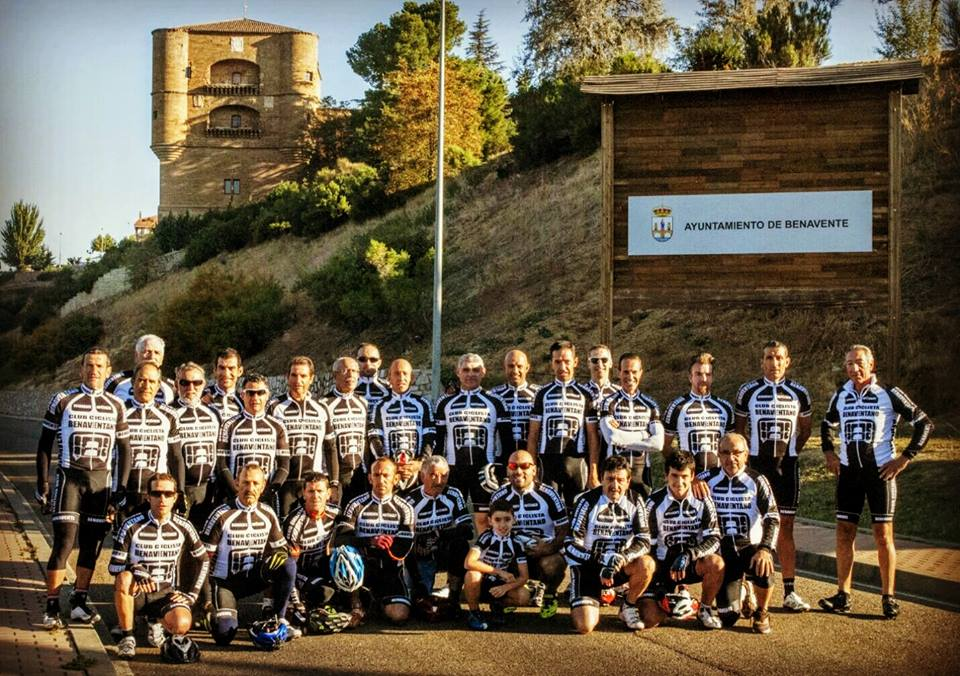
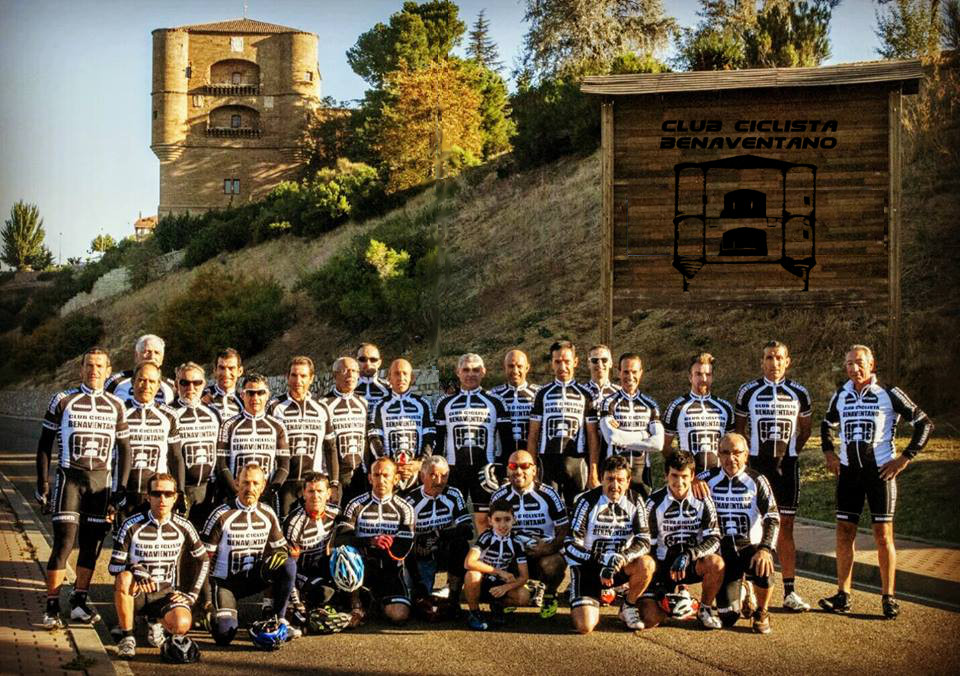
Fix hard-coded [object Object] string (thanks!)

Changed region(s): [[0.6562, 0.1553, 0.9375, 0.4349], [0.4375, 0.0, 0.4688, 0.5902]]

diff --git a/fotos/171030.html b/fotos/171030.html
@@ -1,0 +1,102 @@
+<!DOCTYPE HTML>
+<!--
+	Multiverse by HTML5 UP
+	html5up.net | @ajlkn
+	Free for personal and commercial use under the CCA 3.0 license (html5up.net/license)
+-->
+<html>
+	<head>
+		<title>Multiverse by HTML5 UP</title>
+		<meta charset="utf-8" />
+		<meta name="viewport" content="width=device-width, initial-scale=1, user-scalable=no" />
+		<!--[if lte IE 8]><script src="assets/js/ie/html5shiv.js"></script><![endif]-->
+		<link rel="stylesheet" href="assets/css/main.css" />
+		<!--[if lte IE 9]><link rel="stylesheet" href="assets/css/ie9.css" /><![endif]-->
+		<!--[if lte IE 8]><link rel="stylesheet" href="assets/css/ie8.css" /><![endif]-->
+	</head>
+	<body>
+
+		<!-- Wrapper -->
+			<div id="wrapper">
+
+				<!-- Header -->
+					<header id="header">
+						<!--h1><a href="index.html"><strong>Multiverse</strong> by HTML5 UP</a></h1-->
+						<h1>30 de Octubre de 2017. Marcha de Otoño - La Bañeza</h1>
+						<nav>
+							<ul>
+								<li><a href="../fotos/index.html" class="icon">Volver</a></li>
+							</ul>
+						</nav>
+					</header>
+
+				<!-- Main -->
+					<div id="main">
+						<article class="thumb">
+							<a href="171030/22829633_1486999348013866_6186314998768418711_o.jpg" class="image"><img src="171030/22829633_1486999348013866_6186314998768418711_o.jpg" alt="" /></a>
+							<!--h2>Magna feugiat lorem</h2-->
+							<!--p>Nunc blandit nisi ligula magna sodales lectus elementum non. Integer id venenatis velit.</p-->
+						</article>
+						<article class="thumb">
+							<a href="images/fulls/02.jpg" class="image"><img src="images/thumbs/02.jpg" alt="" /></a>
+						</article>
+					</div>
+
+				<!-- Footer -->
+					<footer id="footer" class="panel">
+						<div class="inner split">
+							<div>
+								<section>
+									<h2>Magna feugiat sed adipiscing</h2>
+									<p>Nulla consequat, ex ut suscipit rutrum, mi dolor tincidunt erat, et scelerisque turpis ipsum eget quis orci mattis aliquet. Maecenas fringilla et ante at lorem et ipsum. Dolor nulla eu bibendum sapien. Donec non pharetra dui. Nulla consequat, ex ut suscipit rutrum, mi dolor tincidunt erat, et scelerisque turpis ipsum.</p>
+								</section>
+								<section>
+									<h2>Follow me on ...</h2>
+									<ul class="icons">
+										<li><a href="#" class="icon fa-twitter"><span class="label">Twitter</span></a></li>
+										<li><a href="#" class="icon fa-facebook"><span class="label">Facebook</span></a></li>
+										<li><a href="#" class="icon fa-instagram"><span class="label">Instagram</span></a></li>
+										<li><a href="#" class="icon fa-github"><span class="label">GitHub</span></a></li>
+										<li><a href="#" class="icon fa-dribbble"><span class="label">Dribbble</span></a></li>
+										<li><a href="#" class="icon fa-linkedin"><span class="label">LinkedIn</span></a></li>
+									</ul>
+								</section>
+								<p class="copyright">
+									&copy; Unttled. Design: <a href="http://html5up.net">HTML5 UP</a>.
+								</p>
+							</div>
+							<div>
+								<section>
+									<h2>Get in touch</h2>
+									<form method="post" action="#">
+										<div class="field half first">
+											<input type="text" name="name" id="name" placeholder="Name" />
+										</div>
+										<div class="field half">
+											<input type="text" name="email" id="email" placeholder="Email" />
+										</div>
+										<div class="field">
+											<textarea name="message" id="message" rows="4" placeholder="Message"></textarea>
+										</div>
+										<ul class="actions">
+											<li><input type="submit" value="Send" class="special" /></li>
+											<li><input type="reset" value="Reset" /></li>
+										</ul>
+									</form>
+								</section>
+							</div>
+						</div>
+					</footer>
+
+			</div>
+
+		<!-- Scripts -->
+			<script src="assets/js/jquery.min.js"></script>
+			<script src="assets/js/jquery.poptrox.min.js"></script>
+			<script src="assets/js/skel.min.js"></script>
+			<script src="assets/js/util.js"></script>
+			<!--[if lte IE 8]><script src="assets/js/ie/respond.min.js"></script><![endif]-->
+			<script src="assets/js/main.js"></script>
+
+	</body>
+</html>

diff --git a/fotos.html b/fotos.html
@@ -1,0 +1,138 @@
+<!DOCTYPE HTML>
+<!--
+	Massively by HTML5 UP
+	html5up.net | @ajlkn
+	Free for personal and commercial use under the CCA 3.0 license (html5up.net/license)
+-->
+<html>
+	<head>
+		<title>Club Ciclista Benaventano</title>
+		<meta charset="utf-8" />
+		<meta name="viewport" content="width=device-width, initial-scale=1, user-scalable=no" />
+		<link rel="stylesheet" href="assets/css/main.css" />
+		<noscript><link rel="stylesheet" href="assets/css/noscript.css" /></noscript>
+	</head>
+	<body class="is-loading">
+
+		<!-- Wrapper -->
+			<div id="wrapper">
+
+				<!-- Header -->
+					<header id="header">
+						<a href="index.html" class="logo">Club Ciclista Benaventano</a>
+					</header>
+
+				<!-- Nav -->
+					<nav id="nav">
+						<ul class="links">
+							<li><a href="index.html">This is Massively</a></li>
+							<li><a href="generic.html">Generic Page</a></li>
+							<li class="active"><a href="elements.html">Elements Reference</a></li>
+						</ul>
+						<ul class="icons">
+							<li><a href="#" class="icon fa-twitter"><span class="label">Twitter</span></a></li>
+							<li><a href="#" class="icon fa-facebook"><span class="label">Facebook</span></a></li>
+						</ul>
+					</nav>
+
+				<!-- Main -->
+					<div id="main">
+
+						<!-- Post -->
+							<section class="post">
+								<header class="major">
+									<!--h1>Galeria</h1-->
+									<h2>Fotos y videos</h2>
+								</header>
+
+								
+								<!-- Table -->
+	
+									<div class="table-wrapper">
+										<table>
+											<thead>
+												<tr>
+													<th>Fecha</th>
+													<th>Actividad</th>
+													<th>Galería</th>
+												</tr>
+											</thead>
+											<tbody>
+												<tr>
+													<td>30/10/2017</td>
+													<td>Marcha de otoño. Club El piñon</td>
+													<td><a href="fotos/171030.html" class="button">Ver</a></td>
+												</tr>
+												
+											</tbody>
+											<tfoot>
+												
+											</tfoot>
+										</table>
+									</div>
+
+									
+
+									<hr />
+
+								<!-- Buttons -->
+									
+
+								<!-- Image -->
+
+									<!--h3>Fit</h3-->
+									<span class="image fit"><img src="images/all.jpg" alt="" /></span>
+									
+
+									
+
+
+
+							</section>
+
+					</div>
+
+				<!-- Footer -->
+					<footer id="footer">
+						
+						<section class="split contact">
+							<section class="alt">
+								<h3>Dirección</h3>
+								<p>1234 Somewhere Road #87257<br />
+								CP. 49600 - Benavente, Zamora</p>
+							</section>
+							<section>
+								<h3>Teefono</h3>
+								<p><a href="#">(000) 000-0000</a></p>
+							</section>
+							<section>
+								<h3>Email</h3>
+								<p><a href="#">clubcliclistabenaventano@gmail.com</a></p>
+							</section>
+							<section>
+								<h3>Social</h3>
+								<ul class="icons alt">
+									<li><a href="#" class="icon alt fa-twitter"><span class="label">Twitter</span></a></li>
+									<li><a href="#" class="icon alt fa-facebook"><span class="label">Facebook</span></a></li>
+								</ul>
+							</section>
+						</section>
+					</footer>
+
+				<!-- Copyright -->
+					<div id="copyright">
+						<ul><li>&copy; Untitled</li><li>Design: <a href="https://html5up.net">HTML5 UP</a></li></ul>
+					</div>
+
+			</div>
+
+		<!-- Scripts -->
+			<script src="assets/js/jquery.min.js"></script>
+			<script src="assets/js/jquery.scrollex.min.js"></script>
+			<script src="assets/js/jquery.scrolly.min.js"></script>
+			<script src="assets/js/skel.min.js"></script>
+			<script src="assets/js/util.js"></script>
+			<script src="assets/js/main.js"></script>
+
+	</body>
+</html>

diff --git a/index.html b/index.html
@@ -6,10 +6,10 @@
 -->
 <html>
 	<head>
-		<title>Massively by HTML5 UP</title>
+		<title>Club Ciclista Benaventano</title>
 		<meta charset="utf-8" />
 		<meta name="viewport" content="width=device-width, initial-scale=1, user-scalable=no" />
-		<link rel="stylesheet" href="assets/css/main.css" />
+		<link rel="stylesheet" href="assets/css/main.css?1" />
 		<noscript><link rel="stylesheet" href="assets/css/noscript.css" /></noscript>
 	</head>
 	<body class="is-loading">
@@ -21,35 +21,40 @@
 					<div id="intro">
 						<h1>Club Ciclista<br />
 						Benaventano</h1>
+						
+						<!--img src="./logos/titulo_club.png" /-->
 						<!--p>A free, fully responsive HTML5 + CSS3 site template designed by <a href="https://twitter.com/ajlkn">@ajlkn</a> for <a href="https://html5up.net">HTML5 UP</a><br />
 						and released for free under the <a href="https://html5up.net/license">Creative Commons license</a>.</p-->
 						<ul class="actions">
-							<li><a href="#header" class="button icon solo fa-arrow-down scrolly">Continue</a></li>
+							<li><a href="#header" class="button icon solo fa-arrow-down scrolly" style="background: black">Continue</a></li>
 						</ul>
 					</div>
 
 				<!-- Header -->
 					<header id="header">
-						<a href="index.html" class="logo">CCB</a>
+						<a href="index.html" class="logo">Club Ciclista Benaventano</a>
 					</header>
 
 				<!-- Nav -->
 					<nav id="nav">
 						<ul class="links">
-							<li class="active"><a href="index.html">Contacto</a></li>
+							<li class="active"><a href="index.html">Inicio</a></li>
 							<li><a href="generic.html">Rutas semanales</a></li>
 							<li><a href="elements.html">Próximas actividades</a></li>
+							<li><a href="fotos.html">Fotos</a></li>
 						</ul>
 						<ul class="icons">
 							<li><a href="#" class="icon fa-twitter"><span class="label">Twitter</span></a></li>
-							<li><a href="#" class="icon fa-facebook"><span class="label">Facebook</span></a></li>
-							<li><a href="#" class="icon fa-instagram"><span class="label">Instagram</span></a></li>
+							<li><a href="https://www.facebook.com/search/top/?q=club%20ciclista%20benaventano" class="icon fa-facebook"><span class="label">Facebook</span></a></li>
+							<!--li><a href="#" class="icon fa-instagram"><span class="label">Instagram</span></a></li-->
 						</ul>
 					</nav>
 
 				<!-- Main -->
 					<div id="main">
 
+<!--img src="./logos/titulo_club.png" /-->
+						
 						<!-- Featured Post -->
 							<article class="post featured">
 								<header class="major">

diff --git a/fotos/index.html b/fotos/index.html
@@ -21,10 +21,10 @@
 
 				<!-- Header -->
 					<header id="header">
-						<h1><a href="index.html"><strong>Multiverse</strong> by HTML5 UP</a></h1>
+						<!--h1><a href="index.html"><strong>Multiverse</strong> by HTML5 UP</a></h1-->
 						<nav>
 							<ul>
-								<li><a href="#footer" class="icon fa-info-circle">About</a></li>
+								<li><a href="../index.html" class="icon">Volver</a></li>
 							</ul>
 						</nav>
 					</header>

diff --git a/assets/css/main.css b/assets/css/main.css
@@ -3524,7 +3524,7 @@
 
 					#nav ul.links li a:hover {
 						color: inherit !important;
-						background-color: rgba(255, 255, 255, 0.1);
+						background-color: rgba(0, 0, 0, 0.7);
 					}
 
 				#nav ul.links li.active {
